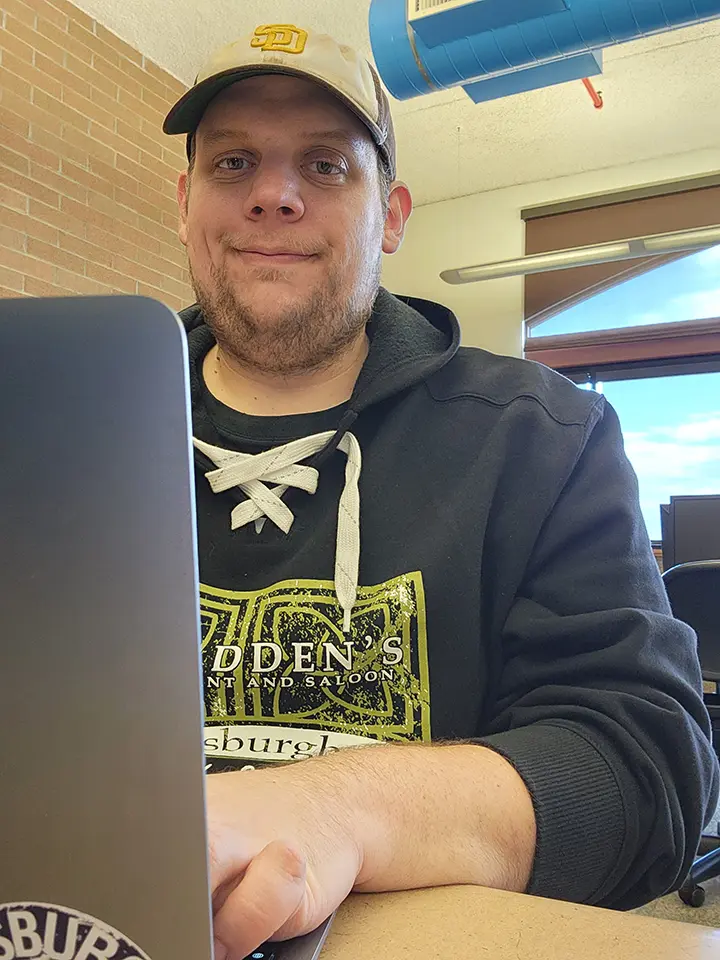
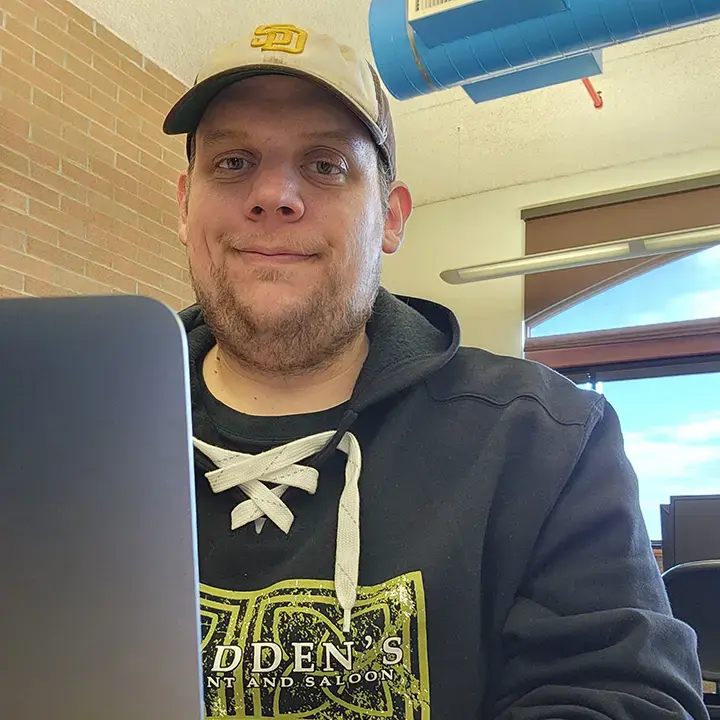
Added Joab's sites to the Past Works page as well as updated the profile pictures.

diff --git a/past-work.html b/past-work.html
@@ -69,6 +69,28 @@
             brewery. We also built out the full kitchen menu the RJ's offers which customers can use to place orders for
             pickup or delivery.</p>
         </article>
+      </div>
+    </div>
+
+    <div class="container">
+      <div class="row">
+        <article class="col-sm-6">
+          <h3>Artists of Artem County</h3>
+          <img src="img/artists-of-artem_site.webp" alt="screen shot of firecracker 10 website" class="img-fluid">
+          <p>Aritsts of Artem County is a yearly celebration of Artem County's rish history of famous artists. This event is public for all to join, so we we're asked to create an easy way for users to learn about and sign up to this event. We created a shop for the sight which updates based on what user's had chose to auction off at the event, as well as a page describing the history of the event.</p>
+        </article>
+        <article class="col-sm-6">
+          <h3>Drop ATOP</h3>
+          <img src="img/drop-atop_site.webp" alt="screen shot of RJ's brewery website" class="img-fluid">
+          <p>Drop ATOP Vending is a distributor who sells vending machines out to other companies. We were asked by Drop
+            ATOP to design a website that users can easily find and order the types of machines they are looking for. We
+            also creathed the brand's logo and new design.</p>
+        </article>
+      </div>
+    </div>
+
+    <div class="container">
+      <div class="row">
         <aside>
           <li>If you like what you see please feel free to contact us to set up an appointment for a consultation</li>
         </aside>

diff --git a/about-us.html b/about-us.html
@@ -71,7 +71,7 @@
                 </article>
                 <article class="col-sm-6">
                     <div class="about">
-                        <img src="img/joab-pfp.webp" class="img-fluid pfp" alt="cartoon drawing of Joab Talvola">
+                        <img src="img/joab-third_a.webp" class="img-fluid pfp" alt="cartoon drawing of Joab Talvola">
                         <h3>Joab Talvola</h3>
                         <p class="bio">Email: <a href="mailto:joabtalvola@gmail.com">joabtalvola@gmail.com </a></p>
                         <p class="bio">Bio: At Third-A Media I’m our lead web developer, which means that I help people
